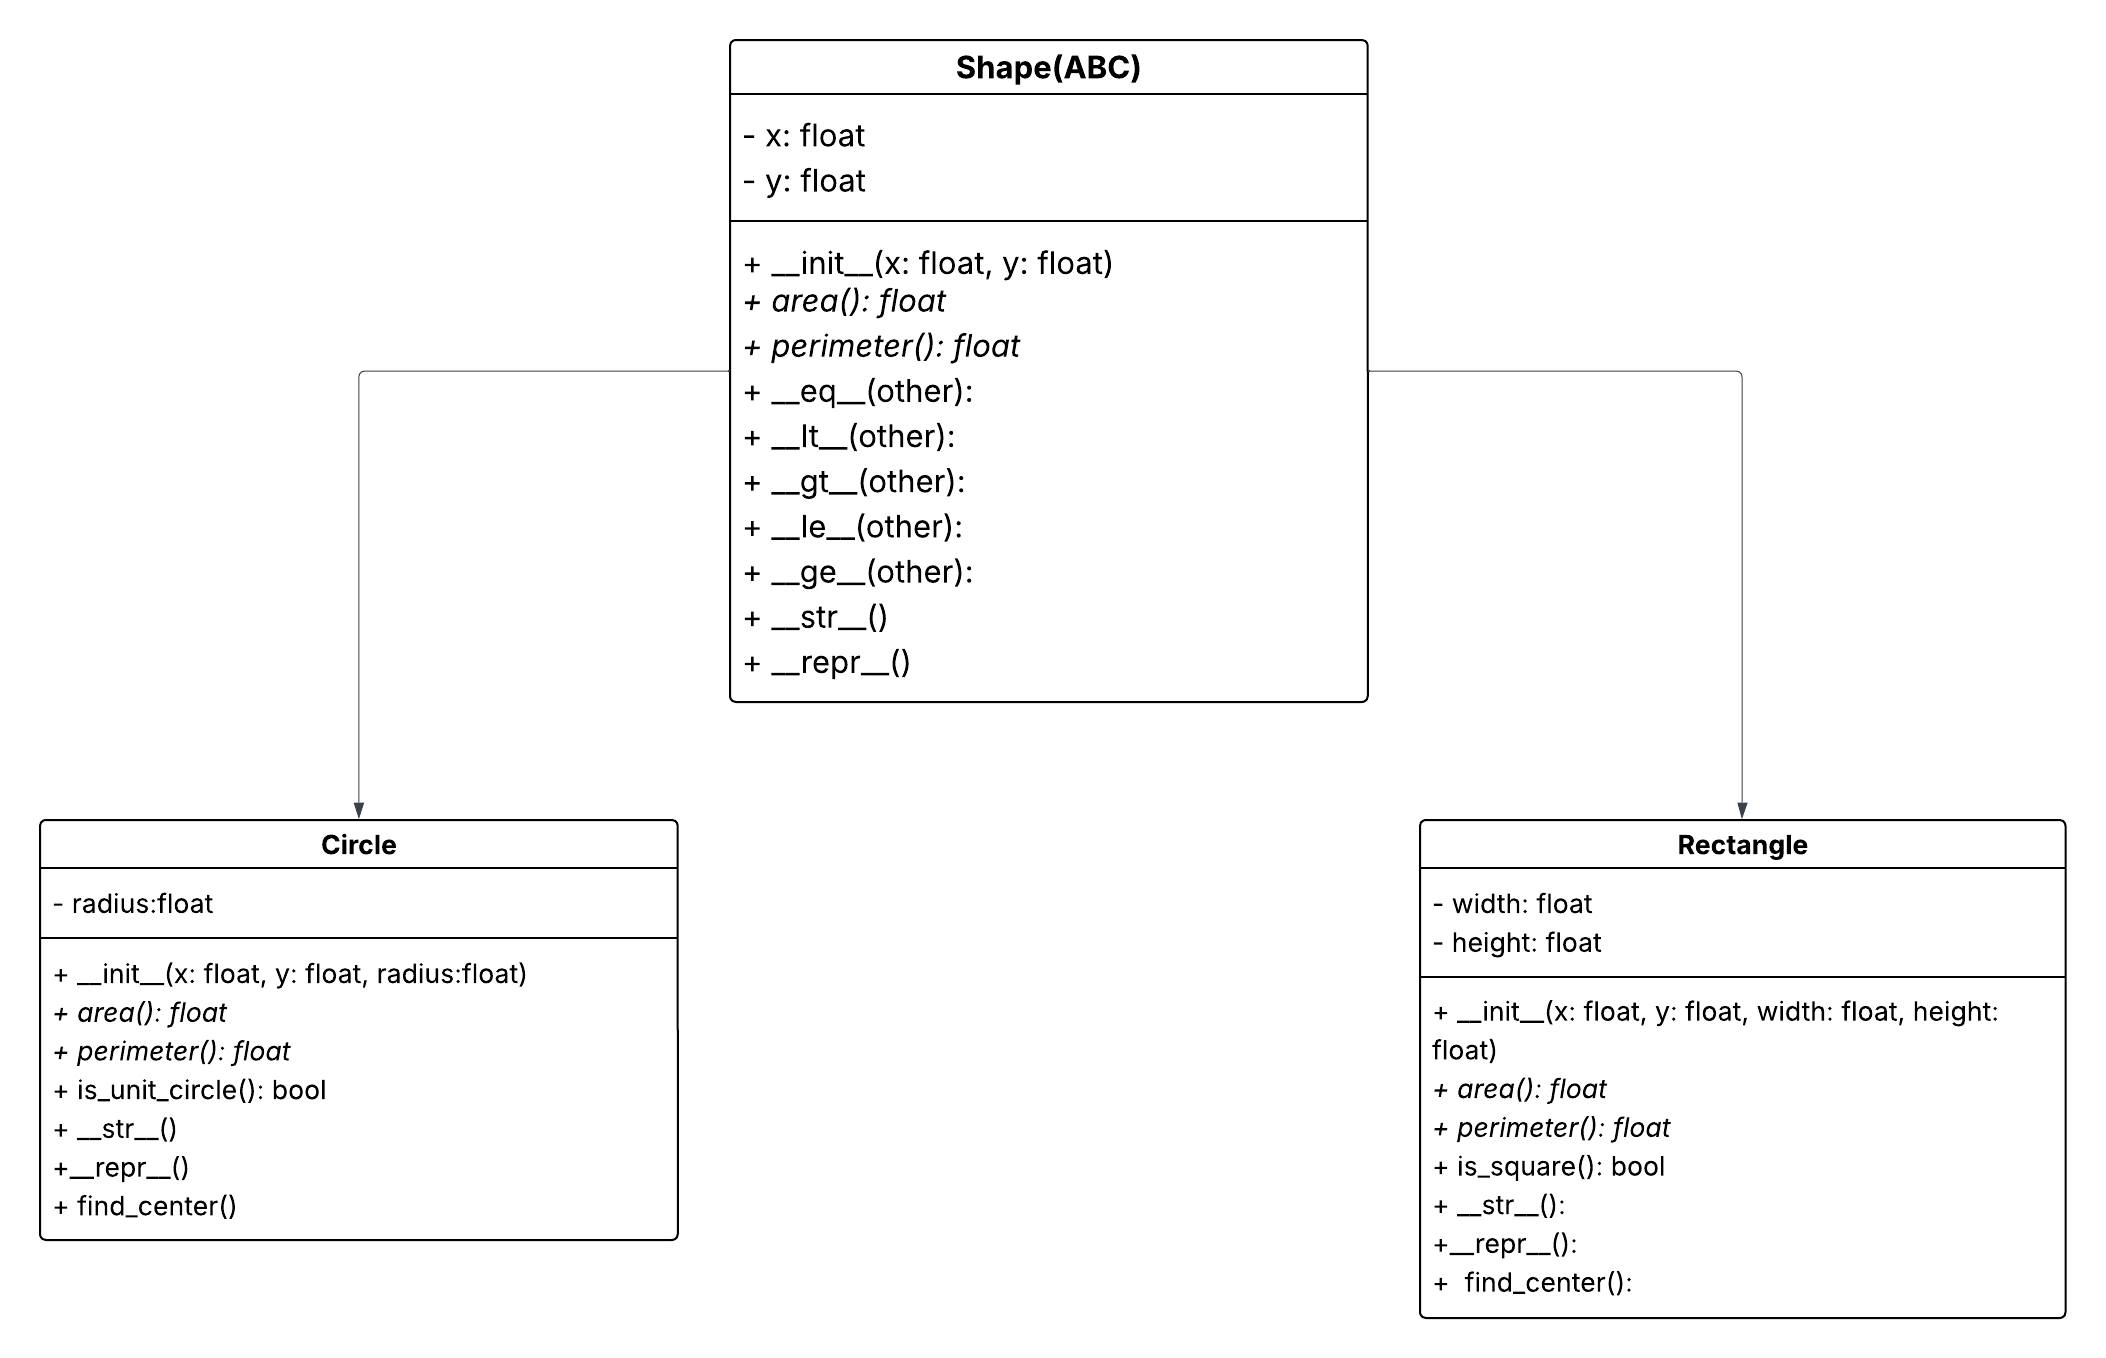
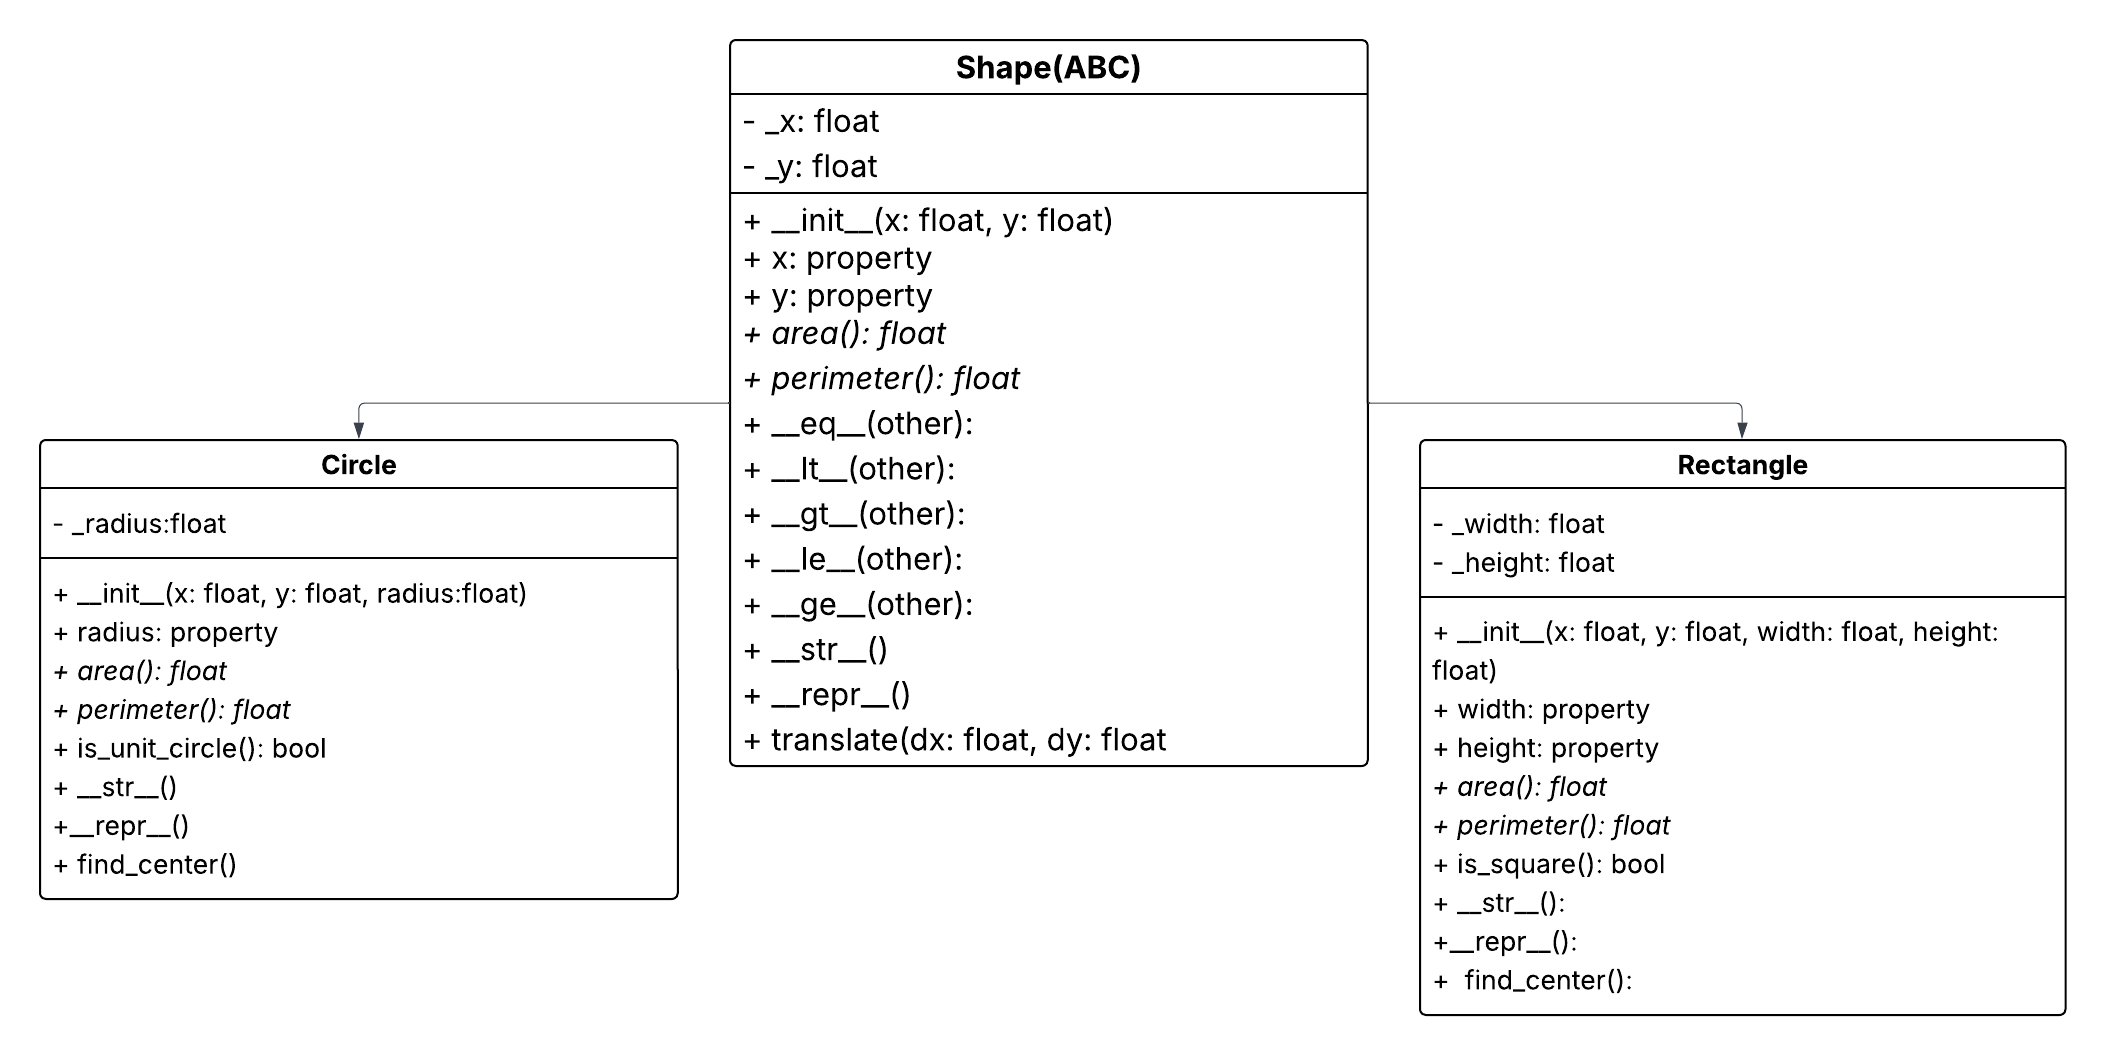
update

diff --git a/lab_2/rectangle.py b/lab_2/rectangle.py
@@ -1,57 +1,86 @@
-from shape import Shape
+from shape import Shape  # Import the "Shape" template from our shape.py file
 
 
+# Our new Rectangle class, which inherits all features from Shape
 class Rectangle(Shape):
-    # The constructor of the Rectangle class initializes the recangle object
+    # This method runs every time we create a new Rectangle object
     def __init__(self, x: float = 0, y: float = 0, width: float = 1, height: float = 1):
-        super().__init__(x, y)  # we reuse the attributes from the Shape class
+        # Call the parent class constructor to save x and y
+        super().__init__(x, y)
+        # Set the width and height. This will call our setters below.
         self.width = width
         self.height = height
 
-    @property
-    def width(self):
-        return self._width
-
-    @width.setter
-    def width(self, value):
-        if not isinstance(value, (int, float)):
-            raise TypeError("The width has to be number")
-        self._width = value
-
-    @property
-    def height(self):
-        return self._height
-
-    @height.setter
-    def height(self, value):
-        if not isinstance(value, (int, float)):
-            raise TypeError("The height has to be number")
-        self._height = value
-
-    @property
+    @property  # A "property" lets us call this method without parentheses (e.g., r.area)
     def area(self):
+        # Calculate the area. Uses _width and _height to get the saved values.
         return self._width * self._height
 
     @property
     def perimeter(self):
+        # Calculate the perimeter
         return 2 * (self._width + self._height)
 
+    @property
+    def is_square(self):
+        # A property to check if the rectangle is actually a square
+        return self._width == self._height  # Returns True if they are equal, else False
+
+    @property
+    def width(self):  # Getter lets us *get* the value (e.g., r.width)
+        return self._width  # Returns the private value we stored
+
+    @width.setter  # Setter runs when we set a value (e.g., r.width = 10)
+    def width(self, value):
+        if not isinstance(value, (int, float)):  # Check if the new value is a number
+            raise TypeError("The width has to be number")  # If not, raise an error
+        if value < 0:  # Also check that the value is not negative
+            raise ValueError("The width cannot be negative")  # If it is, raise an error
+        self._width = (
+            value  # If all checks pass, save the value to the private _width variable
+        )
+
+    @property
+    def height(self):  # Getter for height
+        return self._height
+
+    @height.setter
+    def height(self, value):  # Setter for height
+        if not isinstance(value, (int, float)):  # Same checks as for width
+            raise TypeError("The height has to be number")
+        if value < 0:
+            raise ValueError("The height cannot be negative")
+        self._height = value
+
     def __repr__(self):
-        return f"Rectangle(width={self._width}, height={self._height}, area={self.area}, perimeter={self.perimeter}))"
+        # The formal string for developers. Should look like the code to create the object.
+        return f"Rectangle(x={self.x}, y={self.y}, width={self.width}, height={self.height})"
 
     def __str__(self):
+        # The more readable string used when you run print.
         return f"The area of the rectangle is: {self.area}. The perimeter of the rectangle is: {self.perimeter}"
 
     def find_center(self):
-        # I took inspiration from: https://greenteapress.com/thinkpython/html/thinkpython016.html part 15.4
+        # A method to find the center point of the rectangle
+        # The center = start (x, y) + half the width/height
+        # This method comes from https://greenteapress.com/thinkpython/html/thinkpython016.html part 15.4
         center_x = self.x + self._width / 2.0
         center_y = self.y + self._height / 2.0
-        return (center_x, center_y)
+        return (center_x, center_y)  # Returns the center as a tuple, e.g., (10, 15)
 
 
+# This test code below only runs when we execute this file directly (e.g., by typing "python rectangle.py" in the terminal)
+
+# Create an instance of the class Rectangle.
 r = Rectangle(width=4, height=6)
 
+# Use our properties to print information
 print(f"Width: {r.width}")
 print(f"Height: {r.height}")
 print(f"Area: {r.area}")
 print(f"Perimeter: {r.perimeter}")
+print(f"Is it a square? {r.is_square}")  # Should be False
+
+# Create another rectangle, this one is a square. Idea from 'LLM'
+r2 = Rectangle(width=5, height=5)
+print(f"Is r2 a square? {r2.is_square}")  # Should be True

diff --git a/lab_2/shape.py b/lab_2/shape.py
@@ -16,7 +16,7 @@ class Shape(ABC):  # The parent class Shape
         if not isinstance(value, (int, float)):
             raise TypeError("'x' must be a number, (int or float)")
         else:
-            self._x = value
+            self._x = value  # If the check passes, save the value.
 
     @property  # getter for y
     def y(self):
@@ -34,43 +34,55 @@ class Shape(ABC):  # The parent class Shape
     def area(self):
         pass
 
-    # @abstractmethod to signal the subclasses that these methods are required else they will get a TypeError
+    # We don't know how to calculate the area or perimeter of a 'Shape',
+    # so we leave it empty with 'pass' as a placeholder.
 
     @property
     @abstractmethod
     def perimeter(self):
         pass
 
-    def __eq__(self, other):  # comparison operator - equal
-        return self.x == other.x and self.y == other.y
+    def __eq__(self, other):  # Compares area
+        if not isinstance(other, Shape):
+            return False
+        return self.area == other.area
 
-    def __lt__(self, other):  # less than, checks x then y
-        if self.x == other.x:
-            return self.y < other.y
-        return self.x < other.x
+    def __lt__(self, other):  # Less than
+        if not isinstance(other, Shape):
+            return NotImplemented  # https://docs.python.org/3/reference/datamodel.html
+        return self.area < other.area
 
-    def __le__(self, other):  # less than or equal to
-        if self.x == other.x:
-            return self.y <= other.y
-        return self.x < other.x
+    def __le__(self, other):  # Less than or equal to
+        if not isinstance(other, Shape):
+            return NotImplemented
+        return self.area <= other.area
 
-    def __gt__(self, other):  # greater than
-        if self.x == other.x:
-            return self.y > other.y
-        return self.x > other.x
+    def __gt__(self, other):  # Greater than
+        if not isinstance(other, Shape):
+            return NotImplemented
+        return self.area > other.area
 
-    def __ge__(self, other):  # greater or equal to
-        if self.x == other.x:
-            return self.y >= other.y
-        return self.x > other.x
+    def __ge__(self, other):  # Greater or equal to
+        if not isinstance(other, Shape):
+            return NotImplemented
+        return self.area >= other.area
 
     # I got help and inspiration for the overloading comparison operators from:
     # https://docs.python.org/3/reference/datamodel.html#special-method-names
 
-    def __repr__(
-        self,
-    ):  # formal representation for reviewing the object. https://www.geeksforgeeks.org/python/python-program-to-get-the-class-name-of-an-instance/
+    # self.__class__.__name__ is a clever way to get the *actual* class name,
+    # instead of just "Shape". Used by developers review the code, debug.
+    # https://www.geeksforgeeks.org/python/python-program-to-get-the-class-name-of-an-instance/
+    def __repr__(self):
         return f"{self.__class__.__name__}, (x={self.x}, y={self.y})"
 
-    def __str__(self):  # clean representation for viewing
+    def __str__(self):  # clean representation for viewers
         return f"Shape at position ({self.x}, {self.y})"
+
+    def translate(self, dx, dy):  # a method to move the shape around.
+        # check if the values are numeric before moving
+        if not isinstance(dx, (int, float)) or not isinstance(dy, (int, float)):
+            raise TypeError("Translate values must be numbers (int or float)")
+        # if numeric add to x an y.
+        self.x += dx
+        self.y += dy
